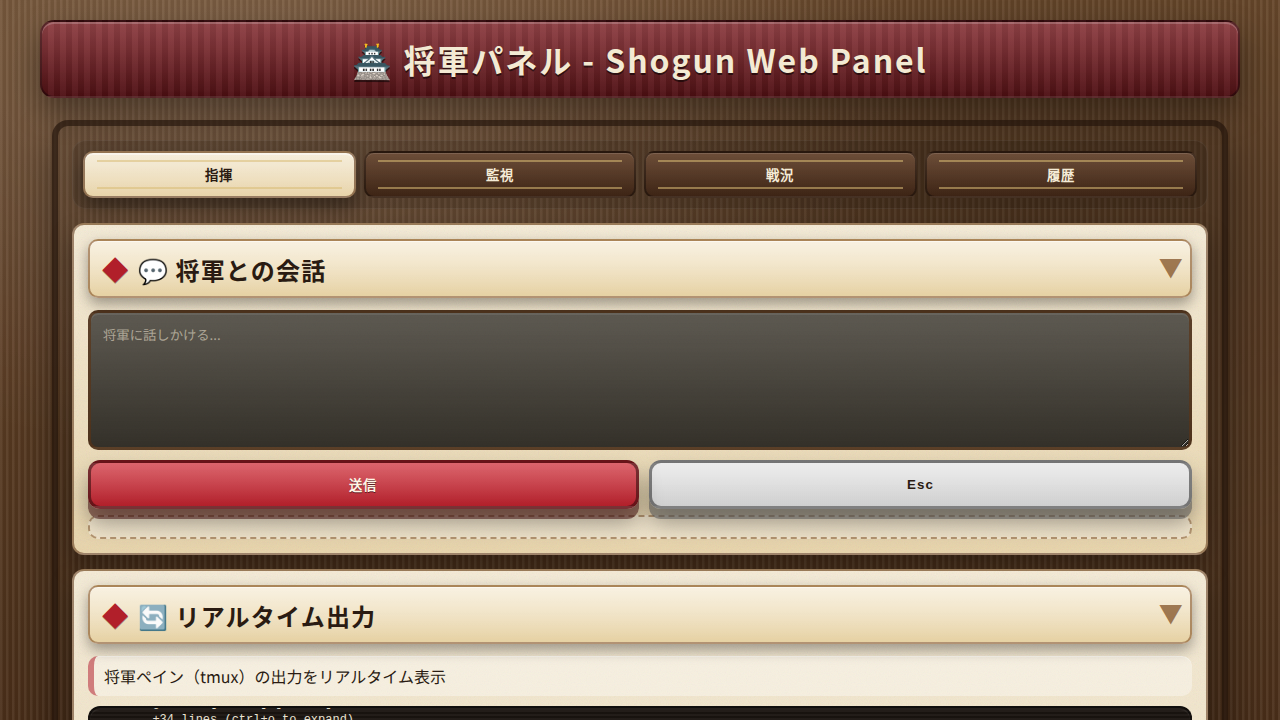
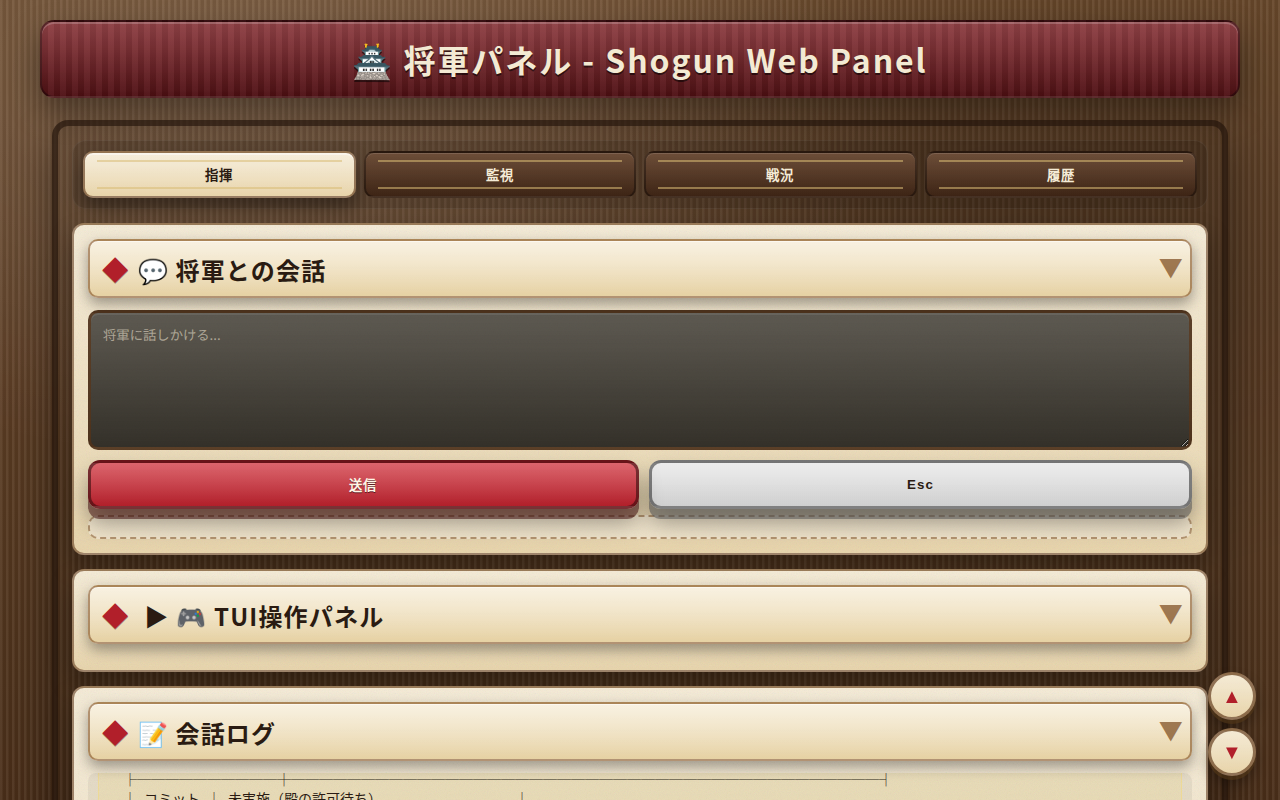
docs: update README with TUI panel, scroll buttons, monitor clear + refresh screenshots
- Document TUI operation panel (arrow keys, Enter, Tab, Ctrl+C)
- Document top/bottom scroll buttons for pane output navigation
- Document monitor clear button (non-destructive display reset)
- Add POST /api/monitor/clear to architecture diagram
- Refresh all 4 tab screenshots with latest UI

diff --git a/README_ja.md b/README_ja.md
@@ -14,13 +14,15 @@
 
 ### 指揮タブ
 
-将軍エージェントのtmuxペインに直接メッセージを送信する。Ctrl+Enterによるクイック送信と、Claude Codeの割り込みに使うEscapeキー送信ボタンを備える。ペイン出力は1秒間隔でリアルタイム更新。
+将軍エージェントのtmuxペインに直接メッセージを送信する。Ctrl+Enterによるクイック送信と、Claude Codeの割り込みに使うEscapeキー送信ボタンを備える。ペイン出力は1秒間隔でリアルタイム更新。Top/Bottomスクロールボタンで長い出力のナビゲーションが可能。
+
+折りたたみ式の **TUI操作パネル** から、方向キー、Enter、Tab、Ctrl+Cなどのキーボード入力を直接送信可能。ブラウザを離れることなく対話型CLIインターフェースを操作できる。
 
 ![指揮タブ](assets/screenshots/tab-command.png)
 
 ### 監視タブ
 
-全エージェントペインをグリッドレイアウトでリアルタイム表示。更新間隔は設定可能（デフォルト5秒）。
+全エージェントペインをグリッドレイアウトでリアルタイム表示。更新間隔は設定可能（デフォルト5秒）。**監視クリア** ボタンでtmuxペイン履歴に影響を与えずに表示をリセット可能（非破壊的）。
 
 ![監視タブ](assets/screenshots/tab-monitor.png)
 
@@ -44,6 +46,7 @@
     ├── GET  /              → メインSPA（Jinja2テンプレート + htmx）
     ├── POST /api/command   → tmux send-keys で将軍ペインに送信
     ├── POST /api/special-key → Escキー送信（許可リスト方式）
+    ├── POST /api/monitor/clear → 監視表示クリア（非破壊的）
     ├── GET  /api/dashboard → dashboard.md 読み取り
     ├── GET  /api/history   → shogun_to_karo.yaml 読み取り
     ├── WS   /ws            → 将軍ペインのリアルタイム出力

diff --git a/README.md b/README.md
@@ -14,13 +14,15 @@ Tenshukaku provides a browser-based interface for commanding and monitoring a fl
 
 ### Command Tab (指揮)
 
-Send messages directly to the Shogun agent's tmux pane. Supports Ctrl+Enter for quick submission and an Escape key button to interrupt Claude Code when needed. Pane output updates every second in real time.
+Send messages directly to the Shogun agent's tmux pane. Supports Ctrl+Enter for quick submission and an Escape key button to interrupt Claude Code when needed. Pane output updates every second in real time. Includes Top/Bottom scroll buttons for navigating long output.
+
+A collapsible **TUI Operation Panel** provides direct keyboard input: arrow keys, Enter, Tab, Ctrl+C, and other special keys — useful for navigating interactive CLI interfaces without leaving the browser.
 
 ![Command Tab](assets/screenshots/tab-command.png)
 
 ### Monitor Tab (監視)
 
-Real-time grid view of all agent panes. Update interval is configurable (default: 5 seconds).
+Real-time grid view of all agent panes. Update interval is configurable (default: 5 seconds). A **Clear Display** button resets the monitor view without affecting tmux pane history (non-destructive).
 
 ![Monitor Tab](assets/screenshots/tab-monitor.png)
 
@@ -44,6 +46,7 @@ Browser (HTTP + WebSocket)
     ├── GET  /              → Main SPA (Jinja2 templates + htmx)
     ├── POST /api/command   → tmux send-keys to shogun pane
     ├── POST /api/special-key → Send Escape key (allowlist-based)
+    ├── POST /api/monitor/clear → Clear monitor display (non-destructive)
     ├── GET  /api/dashboard → Read dashboard.md
     ├── GET  /api/history   → Read shogun_to_karo.yaml
     ├── WS   /ws            → Real-time shogun pane output
